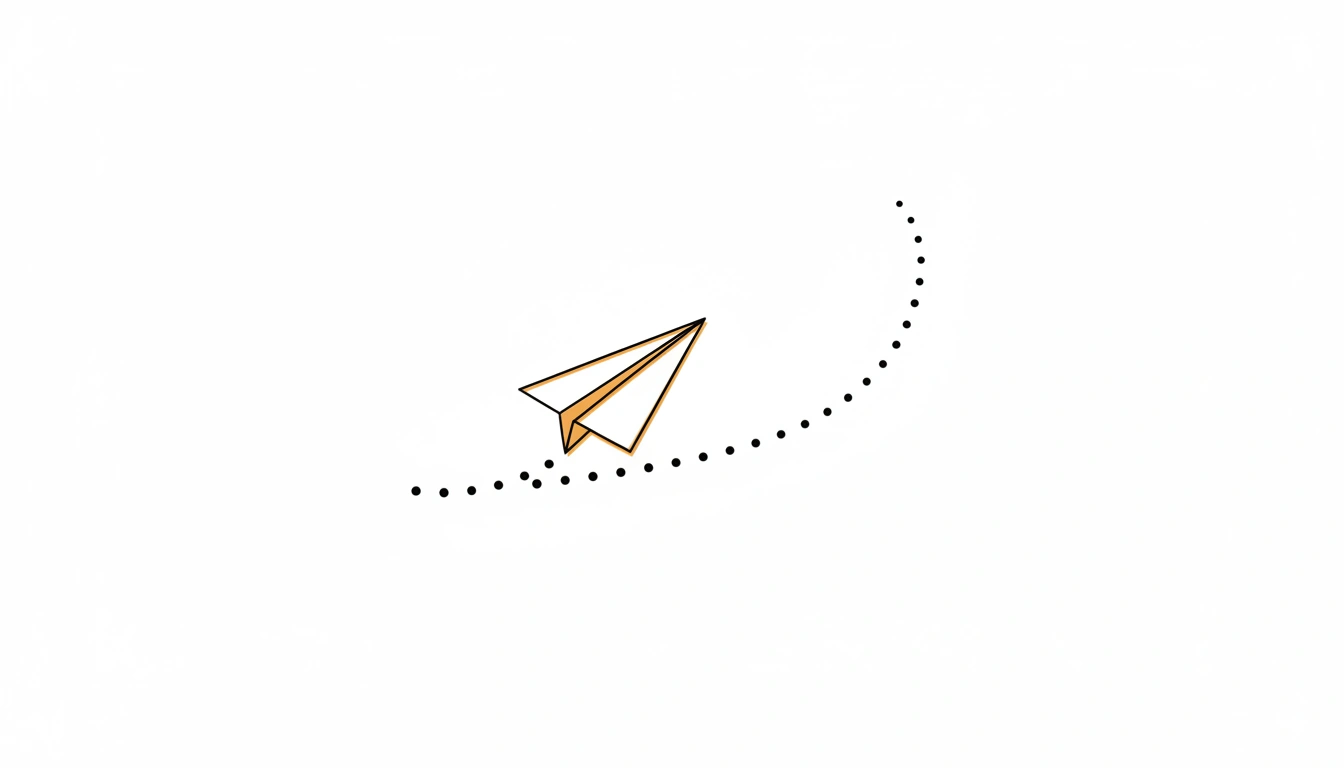
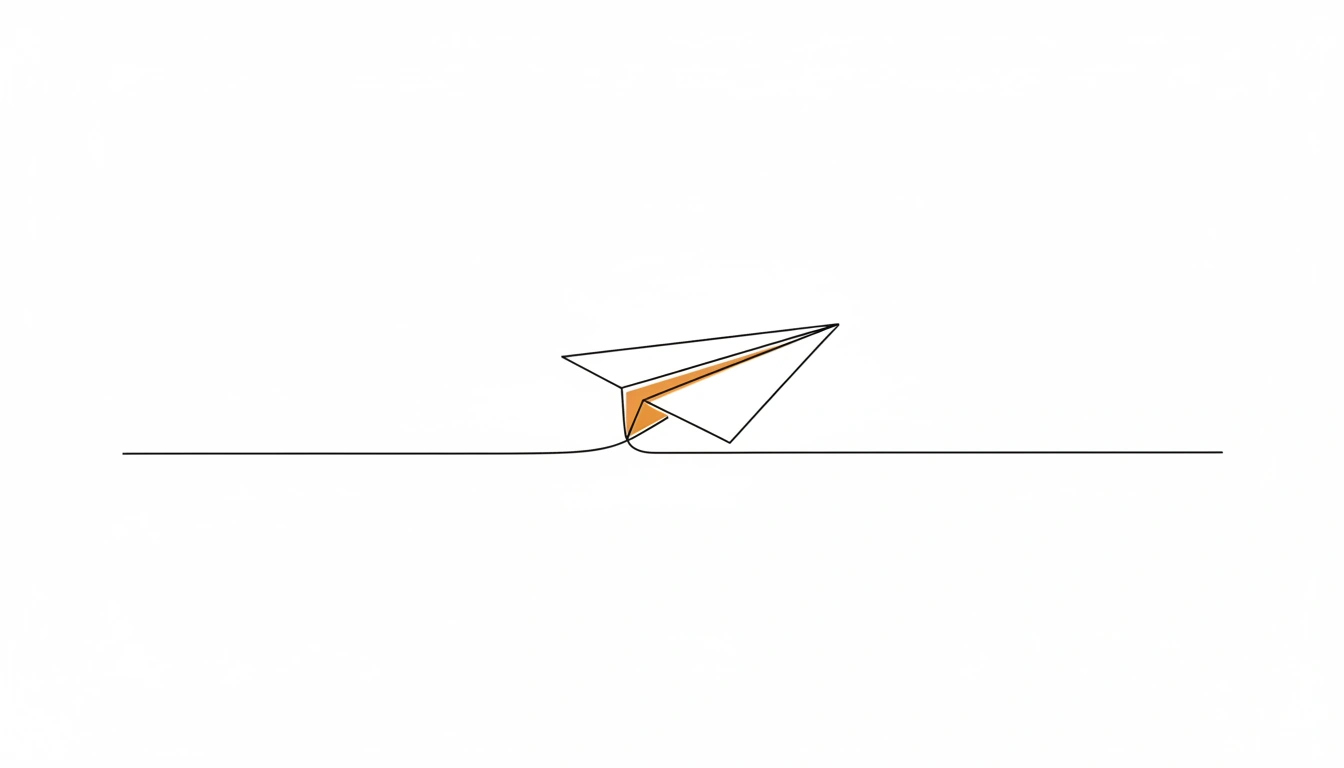
fix(content): Council re-roll of 4 blog hero images
Design Council reviewed the 4 flagged images and each failed for a
specific reason; prompts revised and regenerated.

the-quiet-death-of-approve (paper airplane)
  Maren: the dashed trail was two disconnected arcs, not one path.
  Kael: no horizontal anchor line — broke catalogue motif.
  Fix: prompt now says "flying left to right above a continuous
  horizontal trail line" — model drew a straight anchor through
  the plane.

understanding-layer-2-networks (stacked layers)
  Maren: original was a squiggle with a loop — no subject at all.
  Imagen had failed to render "three stacked glass layers" from the
  committed FLUX-era prose prompt.
  Fix: prompt now says "three parallel horizontal layers stacked
  with a slight offset on a baseline" — subject is now literally
  drawn.

every-approval-you-sign-decoded (four approval shapes)
  Maren: previous output was a vertical "key tree" composition that
  broke the catalogue's horizontal motif.
  Kael: vertical composition inconsistent with catalogue cohesion.
  Fix: prompt now says "four different keys lying horizontally in
  a row on a baseline" — forces horizontal composition.

four-lenses-on-an-unknown-contract (four lenses)
  Maren: amber element was a filled disc, not a stroked ring. The
  "no fill" negation was being overridden for amber specifically
  because "rendered in warm amber" on a round shape produced a
  fill.
  Kael: composition was unbalanced (magnifier in top-right,
  empty left).
[…]

Changed region(s): [[0.0938, 0.4062, 0.9062, 0.625], [0.3438, 0.625, 0.375, 0.6562]]

diff --git a/scripts/generate-blog-images.py b/scripts/generate-blog-images.py
@@ -122,7 +122,7 @@ BLOG_IMAGES = [
     },
     {
         "filename": "understanding-layer-2-networks.webp",
-        "prompt": "Three thin glass layers stacked with slight offset, amber light passing through them, clean white background, minimal, architectural",
+        "prompt": "minimal line art illustration, single continuous thin black ink stroke on plain white background, no shading, no fill, three parallel horizontal layers stacked with a slight offset on a baseline, the middle layer drawn in warm amber ink, centered, simple elegant, editorial spot illustration",
     },
     {
         "filename": "red-team-yourself.webp",
@@ -182,7 +182,7 @@ BLOG_IMAGES = [
     },
     {
         "filename": "every-approval-you-sign-decoded.webp",
-        "prompt": "minimal line art illustration, single continuous thin black ink stroke on plain white background, no shading, no fill, a key splitting into four differently shaped keys, one key in warm amber, centered, simple elegant, editorial spot illustration",
+        "prompt": "minimal line art illustration, single continuous thin black ink stroke on plain white background, no shading, no fill, four different keys lying horizontally in a row on a baseline, the second key drawn in warm amber ink, centered, simple elegant, editorial spot illustration",
     },
     {
         "filename": "ten-minute-wallet-audit.webp",
@@ -194,11 +194,11 @@ BLOG_IMAGES = [
     },
     {
         "filename": "the-quiet-death-of-approve.webp",
-        "prompt": "minimal line art illustration, single continuous thin black ink stroke on plain white background, no shading, no fill, a paper airplane in flight with a dotted trail behind it, the airplane rendered in warm amber, centered, simple elegant, editorial spot illustration",
+        "prompt": "minimal line art illustration, single continuous thin black ink stroke on plain white background, no shading, no fill, a paper airplane flying left to right above a continuous horizontal trail line, one wing drawn in warm amber ink, centered, simple elegant, editorial spot illustration",
     },
     {
         "filename": "four-lenses-on-an-unknown-contract.webp",
-        "prompt": "minimal line art illustration, single continuous thin black ink stroke on plain white background, no shading, no fill, a magnifying glass with four overlapping concentric lens rings, the innermost lens rendered in warm amber, centered, simple elegant, editorial spot illustration",
+        "prompt": "minimal line art illustration, single continuous thin black ink stroke on plain white background, no shading, no fill, four interlocking magnifying lens rings of decreasing size arranged on a baseline, the innermost ring drawn in warm amber ink, centered, simple elegant, editorial spot illustration",
     },
     {
         "filename": "how-to-revoke-a-permit2-approval.webp",
